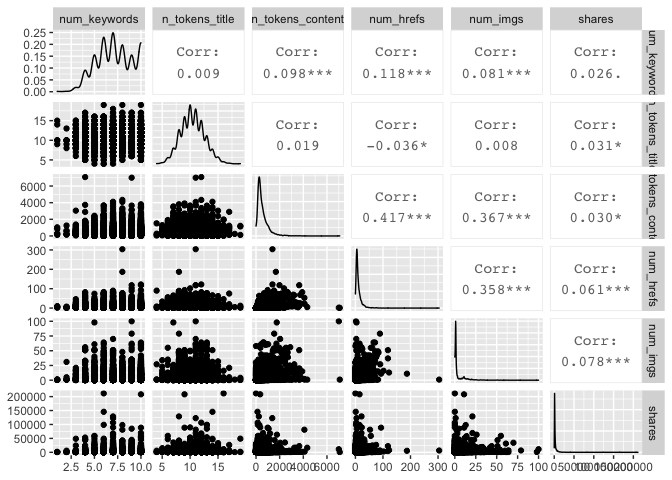
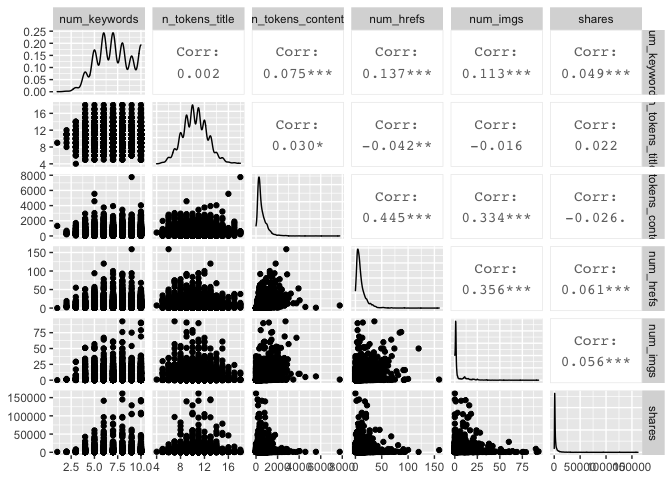
Fixing typo.

diff --git a/ST-558---Project-2---Heubusch---2.md b/ST-558---Project-2---Heubusch---2.md
@@ -112,7 +112,8 @@ view(newsData)
 ```
 
 ``` r
-newsData <- newsData %>% filter(weekday_is_tuesday==1) #Original filtering for just Monday data.
+#Original filtering for just Monday data. I did not manage to automate my reports, so I generated separate reports manually using this filter. 
+newsData <- newsData %>% filter(weekday_is_monday==1) 
 ```
 
 Per the project directions, I began by splitting the data, using
@@ -449,9 +450,9 @@ compareAdjR2results
 ```
 
     ##             fitStat dataFit1 dataFit2 dataFit3 dataFit4 dataFit5 dataFit6
-    ## 1 Adjusted R Square  0.01067  0.01213  0.01213  0.01364   0.0159   0.0182
+    ## 1 Adjusted R Square  0.01386  0.01578  0.01578  0.01719  0.01779  0.01967
     ##   dataFit7 dataFit8 dataFit9 dataFit10 dataFit11 dataFitall
-    ## 1  0.01986  0.02085  0.02118   0.02136   0.02259    0.05078
+    ## 1  0.02017   0.0233   0.0231   0.02348   0.02365    0.05065
 
 ``` r
 compareAIC <- function(df1, df2, df3, df4, df5, df6, df7, df8, df9, df10, df11, dfall) {
@@ -477,9 +478,9 @@ compareAICresults
 ```
 
     ##             fitStat dataFit1 dataFit2 dataFit3 dataFit4 dataFit5 dataFit6
-    ## 1 Adjusted R Square 107504.9 107498.3 107498.3 107491.4 107480.5 107469.4
+    ## 1 Adjusted R Square 97811.97 97803.85 97803.85 97798.18 97796.34  97788.4
     ##   dataFit7 dataFit8 dataFit9 dataFit10 dataFit11 dataFitall
-    ## 1 107461.7 107458.4 107457.7  107457.7  107452.2   107339.6
+    ## 1 97787.04 97774.09 97776.08  97775.26  97775.44   97682.44
 
 Of all the models: **dataFitAll** has the highest Adjusted R-square
 value(0.05065) and lowest AIC (97682.44).
@@ -517,13 +518,13 @@ dataFitSignif16 <- lm(shares~n_tokens_title +
 summary(dataFitSignif16)$adj.r.square
 ```
 
-    ## [1] 0.03908223
+    ## [1] 0.05102404
 
 ``` r
 AIC(dataFitSignif16)
 ```
 
-    ## [1] 107369.2
+    ## [1] 97647.84
 
 Incorporating these 16 variables into the model reduces the adjusted
 R-square to **0.05102**, a small improvement. It also yielded a better
@@ -552,13 +553,13 @@ dataFitSignif14 <- lm(shares~n_tokens_title +
 summary(dataFitSignif14)$adj.r.square
 ```
 
-    ## [1] 0.03631134
+    ## [1] 0.05055098
 
 ``` r
 AIC(dataFitSignif14)
 ```
 
-    ## [1] 107382.1
+    ## [1] 97648.17
 
 However, even though the result returned indicates that all variables
 are significant at the alpha=0.05 level, this model reduced the Adjusted
@@ -583,14 +584,14 @@ fit11Train <- train(as.formula(dataFit11), data=newsDataTrain, method="lm", trCo
 fit11Train$results$RMSE
 ```
 
-    ## [1] 7424.068
+    ## [1] 8319.067
 
 ``` r
 fitSignif16Train <- train(as.formula(dataFitSignif16), data=newsDataTrain, method="lm", trControl=control)
 fitSignif16Train$results$RMSE
 ```
 
-    ## [1] 7529.752
+    ## [1] 8202.006
 
 I then did the same with the Test set.
 
@@ -600,14 +601,14 @@ fit11Test <- train(as.formula(dataFit11), data=newsDataTest, method="lm", trCont
 fit11Test$results$RMSE
 ```
 
-    ## [1] 10145.42
+    ## [1] 16284
 
 ``` r
 fitSignif16Test <- train(as.formula(dataFitSignif16), data=newsDataTest, method="lm", trControl=control)
 fitSignif16Test$results$RMSE
 ```
 
-    ## [1] 10570.28
+    ## [1] 16452.37
 
 We see that the model **fitSignif16Test** has a lower RSME for both the
 Training and Test set; therefore, when looking at our linear models, we
@@ -650,7 +651,7 @@ summary(rfNewsDataPred)
 ```
 
     ##    Min. 1st Qu.  Median    Mean 3rd Qu.    Max. 
-    ##     823    1971    2772    3528    4045   51333
+    ##   912.1  2040.4  3049.6  4081.8  4811.6 42459.2
 
 ``` r
 fit16NewPred <- predict(dataFitSignif16, newdata=newsDataTest)
@@ -658,7 +659,7 @@ summary(fit16NewPred)
 ```
 
     ##    Min. 1st Qu.  Median    Mean 3rd Qu.    Max. 
-    ##  -879.4  2061.8  2854.5  3120.2  3918.3 12158.5
+    ##   -1607    2181    3042    3514    4190   13105
 
 ## Comparing Two Models on Test Data Set
 
@@ -672,14 +673,14 @@ rfRMSE <- sqrt(mean((rfNewsDataPred-newsDataTest$shares)^2))
 rfRMSE
 ```
 
-    ## [1] 13324.2
+    ## [1] 23204.43
 
 ``` r
 datafit16RMSE <- sqrt(mean((fit16NewPred-newsDataTest$shares)^2))
 datafit16RMSE
 ```
 
-    ## [1] 13094.88
+    ## [1] 23147.86
 
 Both models have a very similar RMSE. A lower RSME is preferred; in this
 case, the linear regression model - **dataFit16** - is considered a
